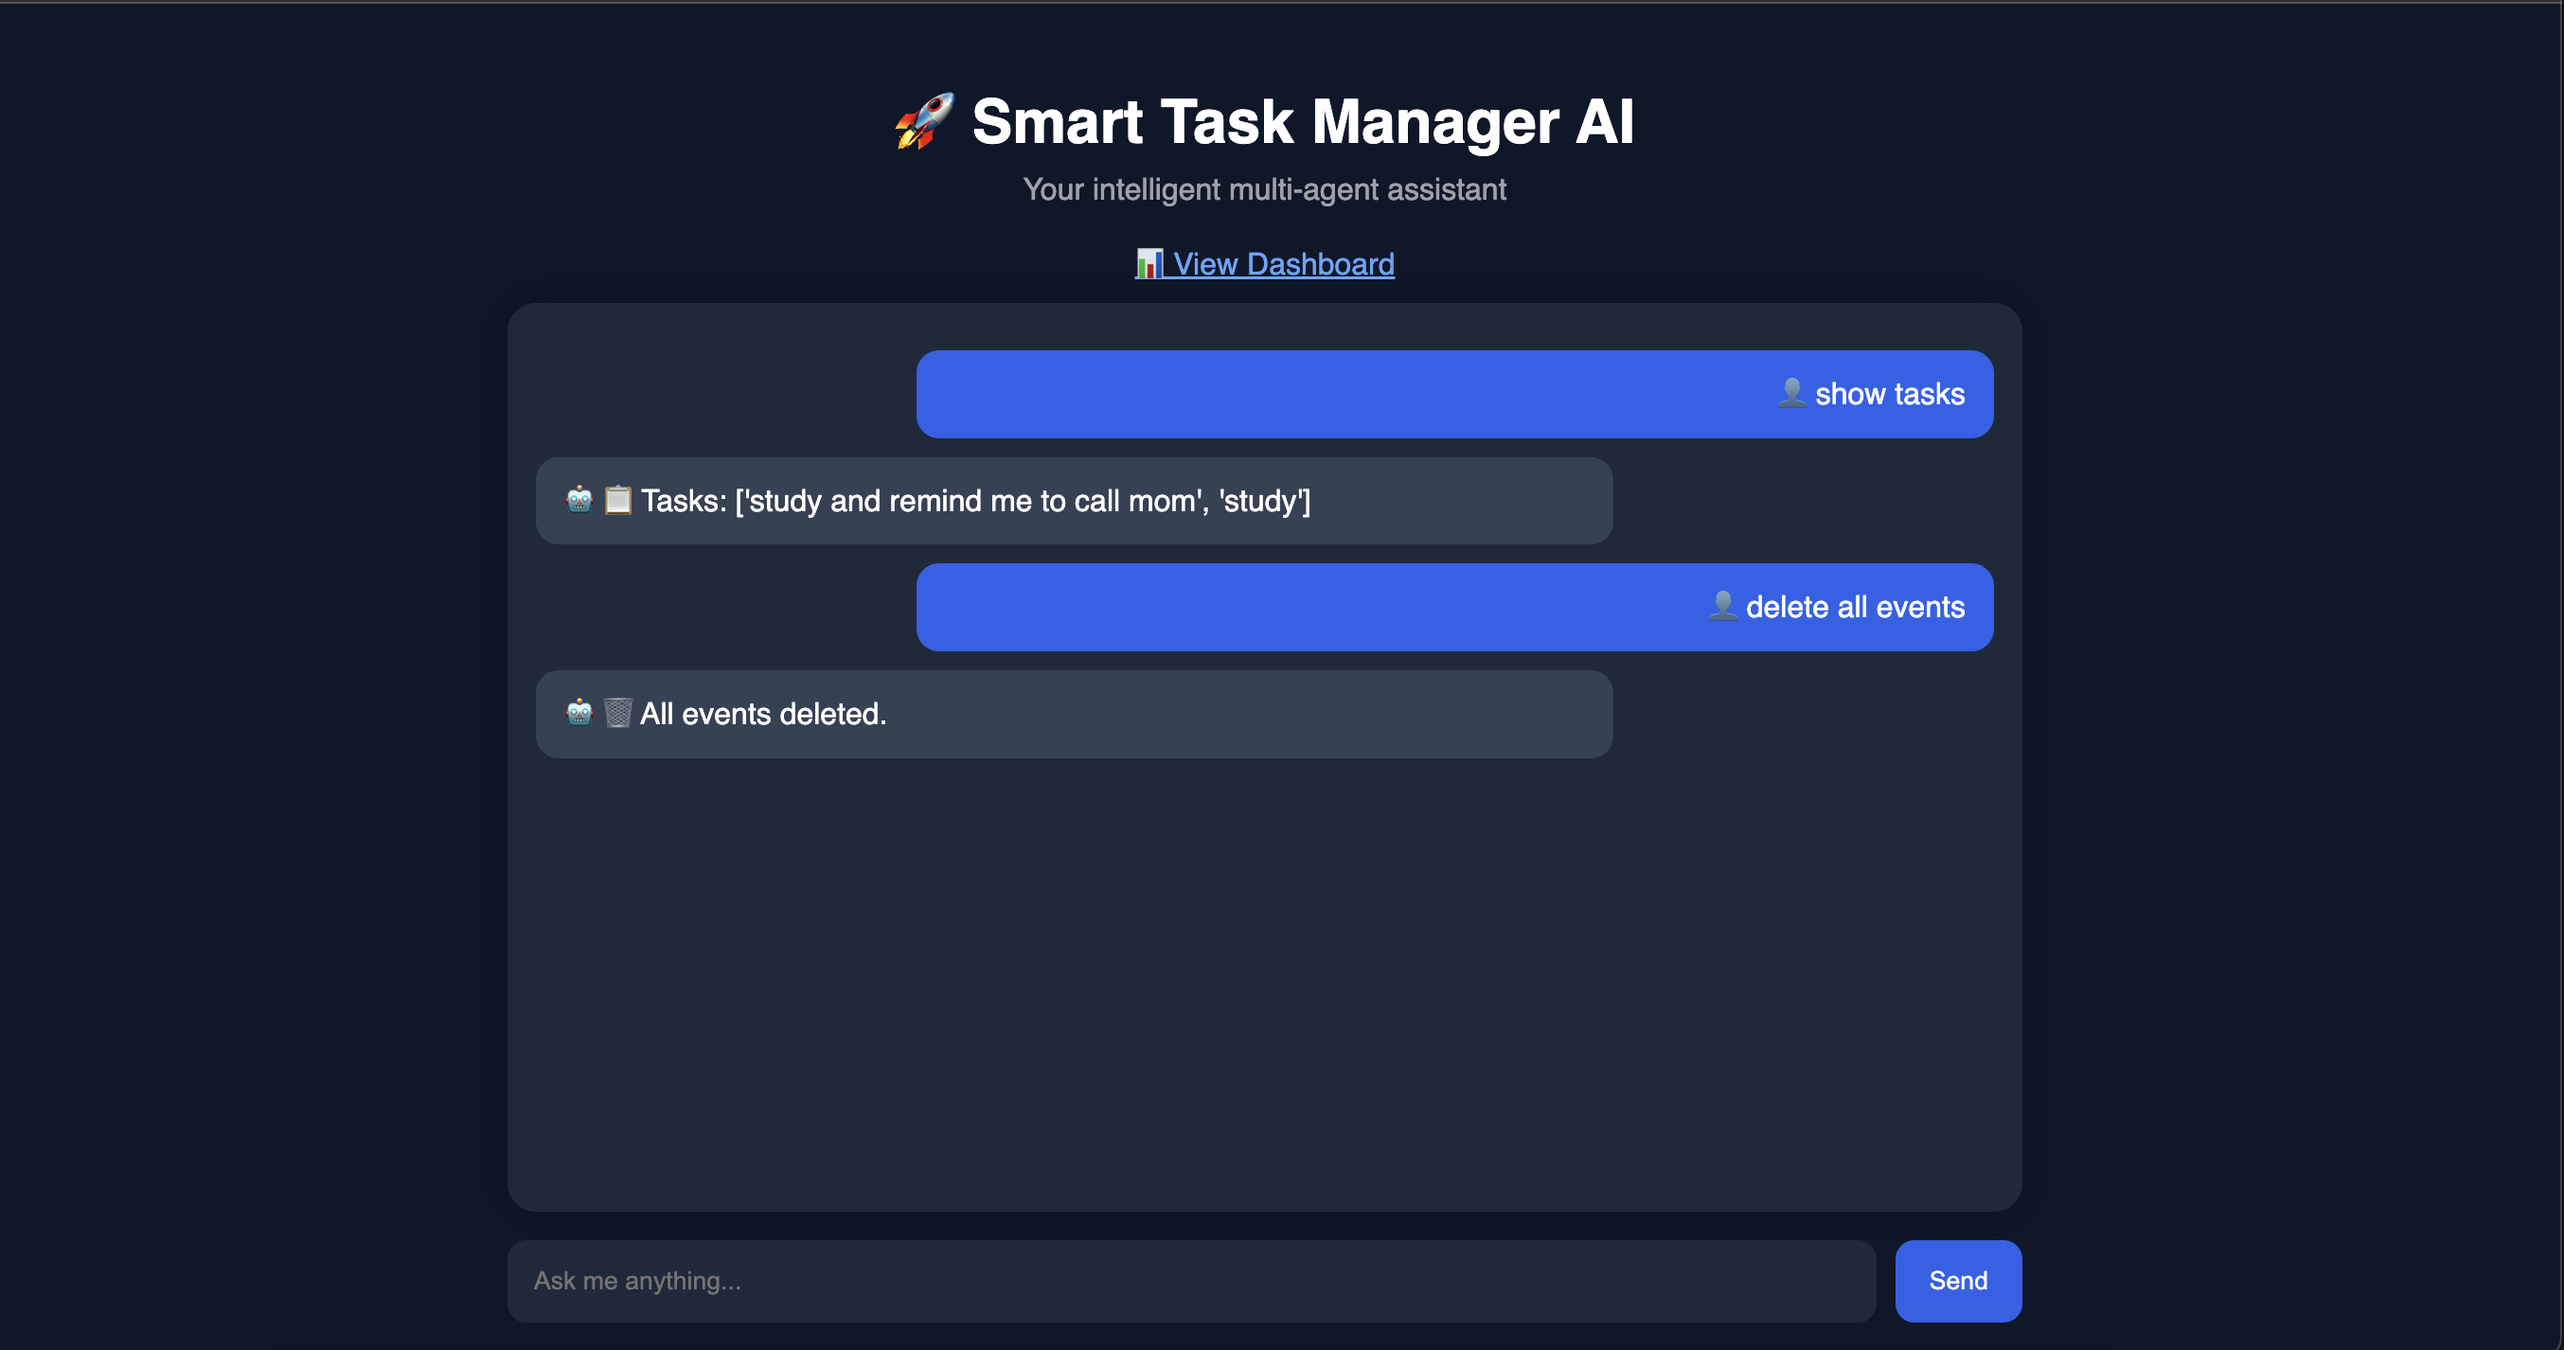
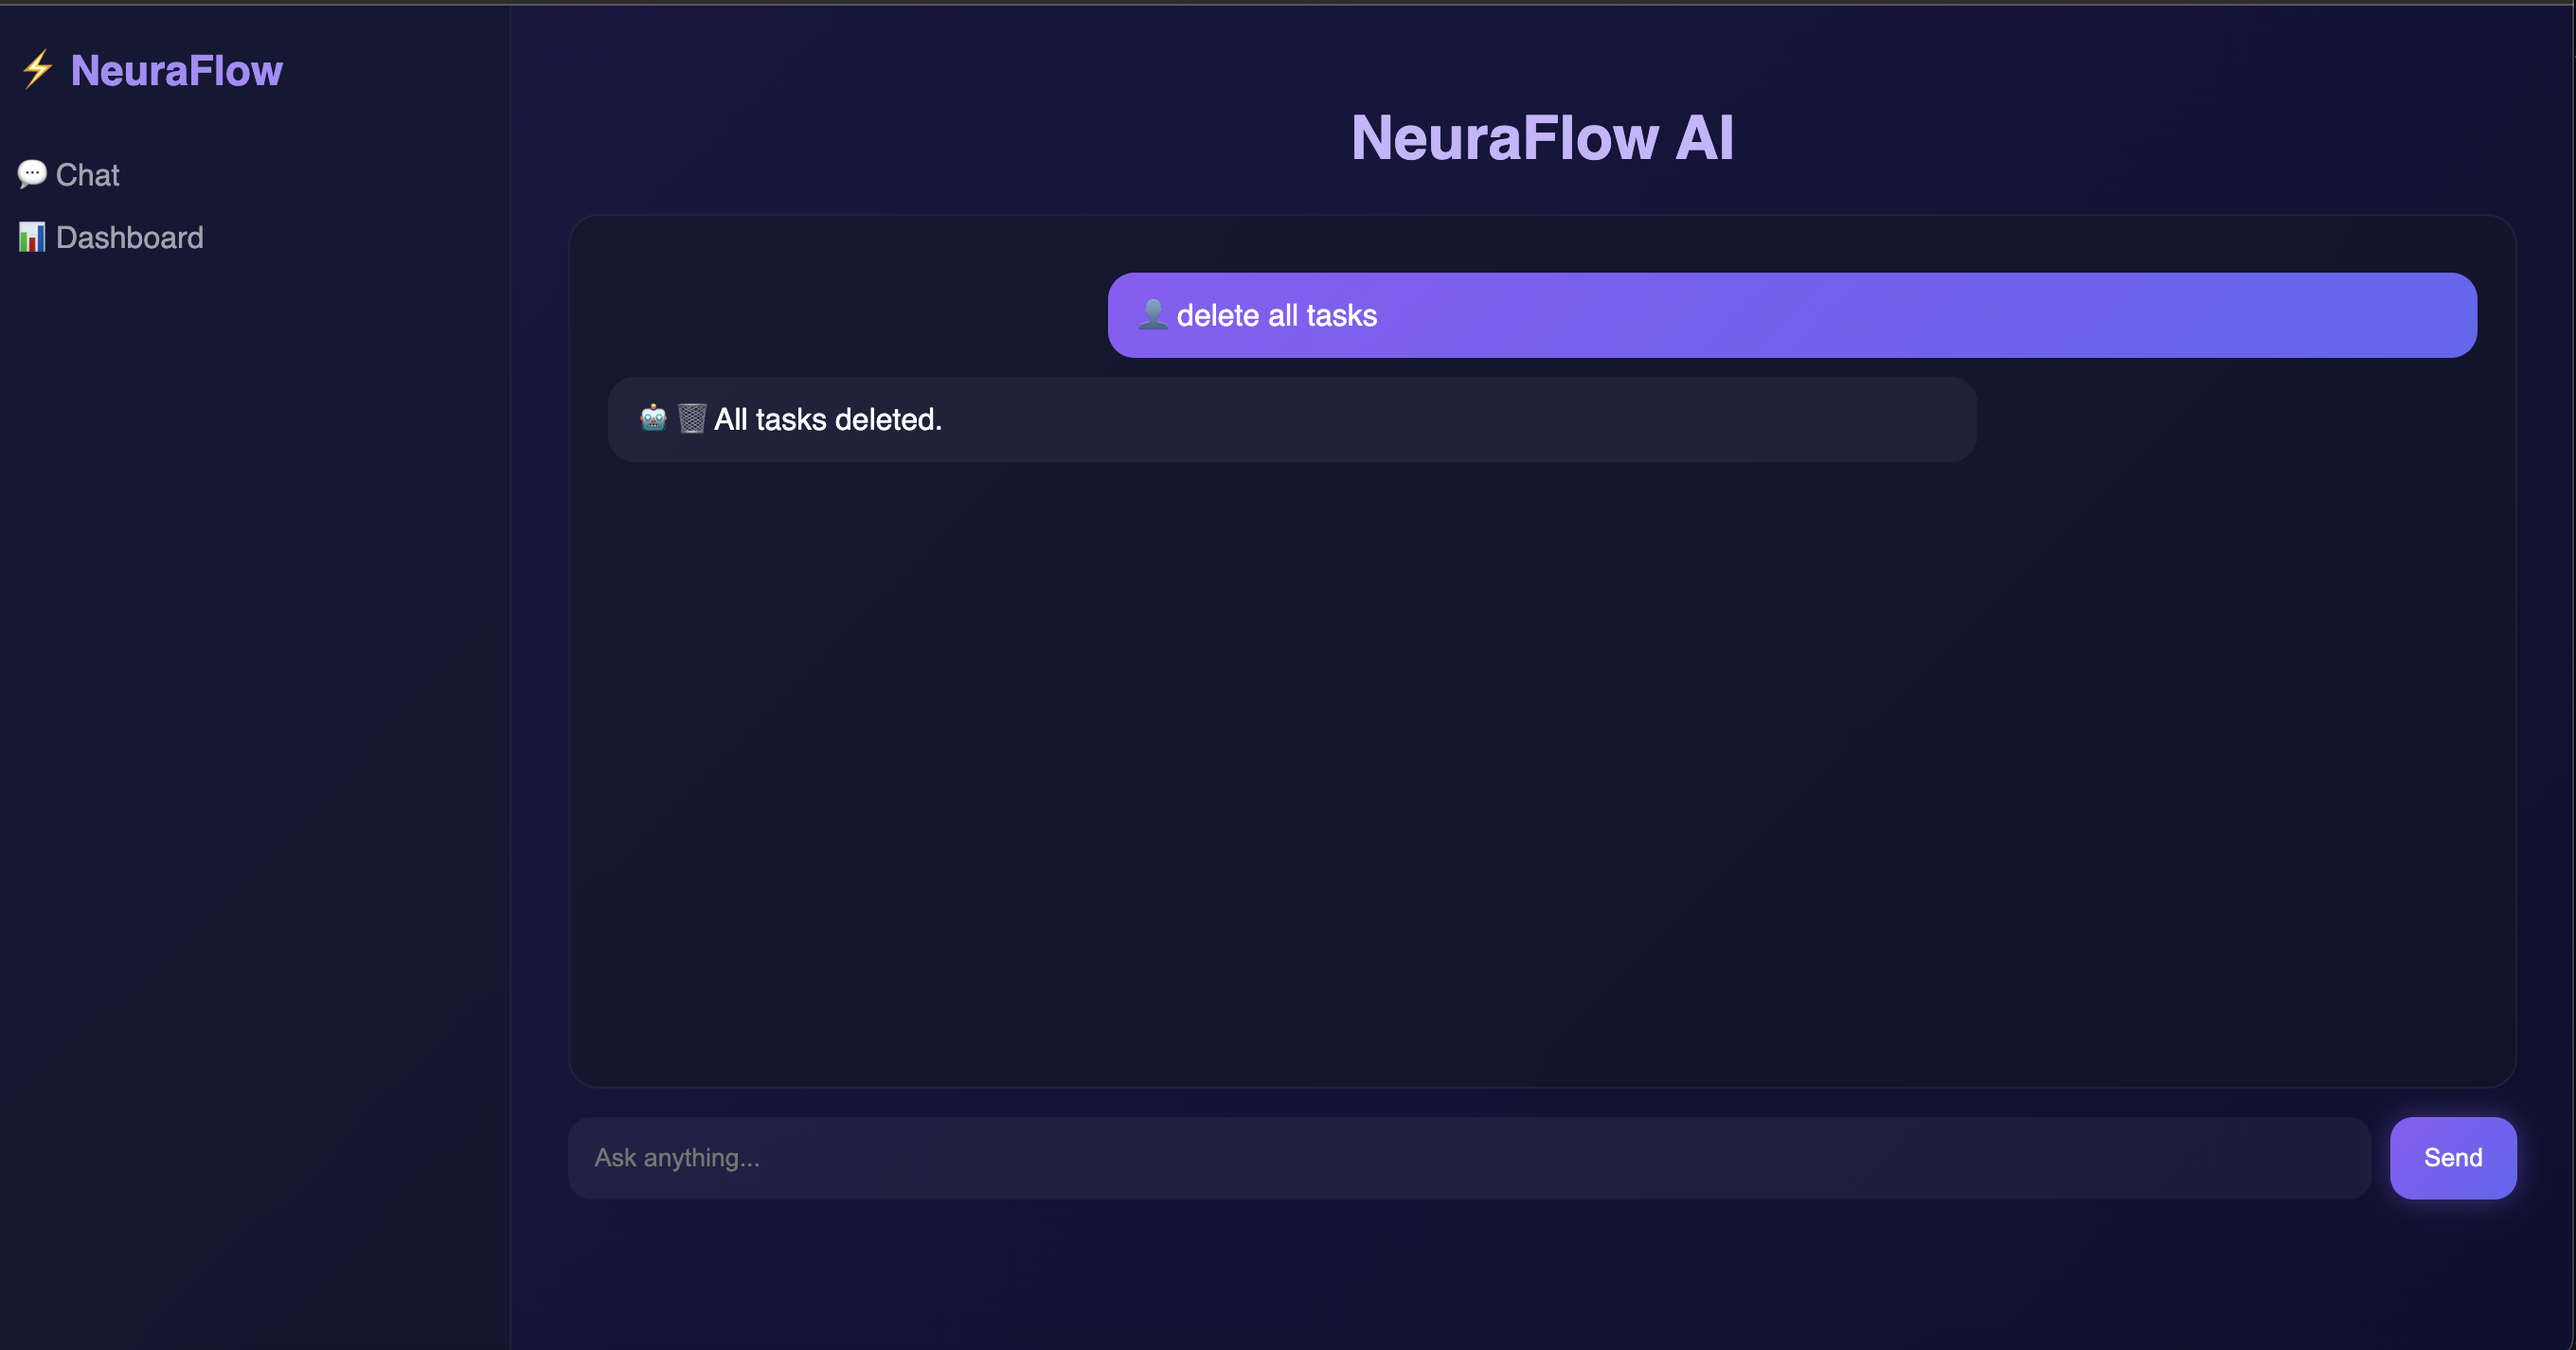
readme & ss update

diff --git a/README.md b/README.md
@@ -1,12 +1,36 @@
-# 🚀 Multi-Agent AI Assistant
+# 🚀 🧠 NeuraFlow AI — Multi-Agent Productivity Assistant
 
-A production-ready AI system that manages tasks, events, and notes using:
+![Python](https://img.shields.io/badge/Python-3.10-blue)
+![FastAPI](https://img.shields.io/badge/FastAPI-Backend-green)
+![LLM](https://img.shields.io/badge/LLM-Gemini-orange)
+![Deployment](https://img.shields.io/badge/Deployed-Cloud%20Run-brightgreen)
+![Status](https://img.shields.io/badge/Status-Production--Ready-success)
 
-- 🤖 Multi-agent architecture
+---
+
+## 🌐 Live Demo
+
+https://crypto-agent-843080848499.asia-south1.run.app/
+
+---
+
+## 📦 GitHub Repository
+
+https://github.com/MuskaanTimbadiya/multi-agent
+
+---
+
+## 🧠 Overview
+
+NeuraFlow AI is a **multi-agent AI system** that manages tasks, events, and notes using natural language.
+
+It uses:
 - 🧠 LLM-based routing (Gemini)
 - 🔗 MCP-style tool integration
-- 💬 Chat UI + Dashboard
 - 🗄 SQLite database
+- 💬 Chat UI + 📊 Dashboard
+
+---
 
 🧩 Architecture
 
@@ -60,29 +84,32 @@ add task study and remind me to call mom
 - Example:delete all events
 
 
+
 ### 💬 Chat Interface
 - ChatGPT-style UI  
-- Typing animation  
-- Conversation history  
+- Animations + typing indicator  
 
 ### 📊 Dashboard
-- View tasks, events, and notes in one place  
+- Tasks, Events, Notes view  
+- 📊 Stats (counts)  
+- 🧠 AI Insights  
 
 ---
 
 ## 🧪 Example Commands
 
-### 📋 Tasks
+### Tasks
 - add task study  
 - show tasks  
 - delete task study  
+- delete all tasks  
 
-### 📅 Events
+### Events
 - remind me to call mom  
-- schedule meeting tomorrow  
+- schedule meeting  
 - delete all events  
 
-### 📝 Notes
+### Notes
 - save note startup idea  
 - show notes  
 - delete note startup  
@@ -91,35 +118,22 @@ add task study and remind me to call mom
 
 ## 🛠 Tech Stack
 
-- **Backend:** FastAPI  
-- **LLM:** Google Gemini API  
-- **Database:** SQLite  
-- **Frontend:** HTML, CSS, Jinja2  
-- **Deployment:** Docker + Cloud Run  
+- FastAPI  
+- Gemini API  
+- SQLite  
+- HTML, CSS (Jinja2)  
+- Docker + Cloud Run  
 
 ---
 
 ## 🚀 Getting Started
 
-### 1. Clone repository
-git clone https://github.com/MuskaanTimbadiya/multi-agent.git
-
-
-### 2. Install dependencies
+```bash
+git clone https://github.com/MuskaanTimbadiya/crypto-agent.git
+cd crypto-agent
 pip install -r requirements.txt
-
-
-### 3. Set API key
 export GOOGLE_API_KEY="your-api-key"
-
-
-### 4. Run locally
 uvicorn main:app --reload
-
-
-### 5. Open
-http://127.0.0.1:8000/
-
 
 ---
 
